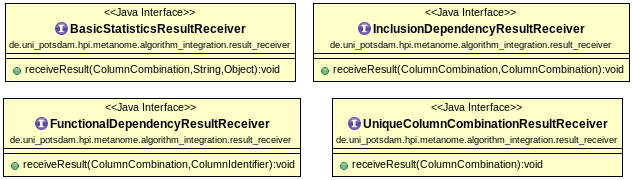
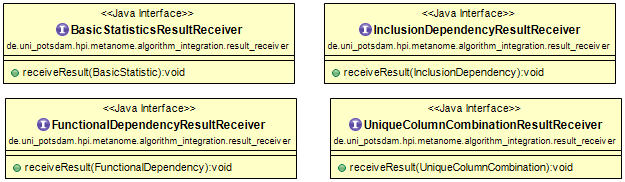
updated documentation

diff --git a/docs/src/main/latex/algorithm_integration/algorithm_integration.tex b/docs/src/main/latex/algorithm_integration/algorithm_integration.tex
@@ -48,7 +48,13 @@ The algorithm should receive the results of the requested configuration through 
 
 \item \texttt{void setResultReceiver(ResultReceiver)}
 
-Algorithms generate certain types of results and send those to the Metanome tool through a callback. To enable this one or several \texttt{ResultReceiver} are set on the algorithm, depending on the algorithm type. Existing result receiver are shown in Figure~\ref{fig_resultReceiverClass}.
+Algorithms generate certain types of results shown in Figure~\ref{fig_resultsClass} and send those to the Metanome tool through a callback.
+\begin{figure}[h]
+\includegraphics[width=\textwidth]{results_class}
+\caption{Results}
+\label{fig_resultsClass}
+\end{figure}
+To enable this one or several \texttt{ResultReceiver} are set on the algorithm, depending on the algorithm type. Existing result receiver are shown in Figure~\ref{fig_resultReceiverClass}.
 
 \begin{figure}[h]
 \includegraphics[width=\textwidth]{resultReceiver_class}
